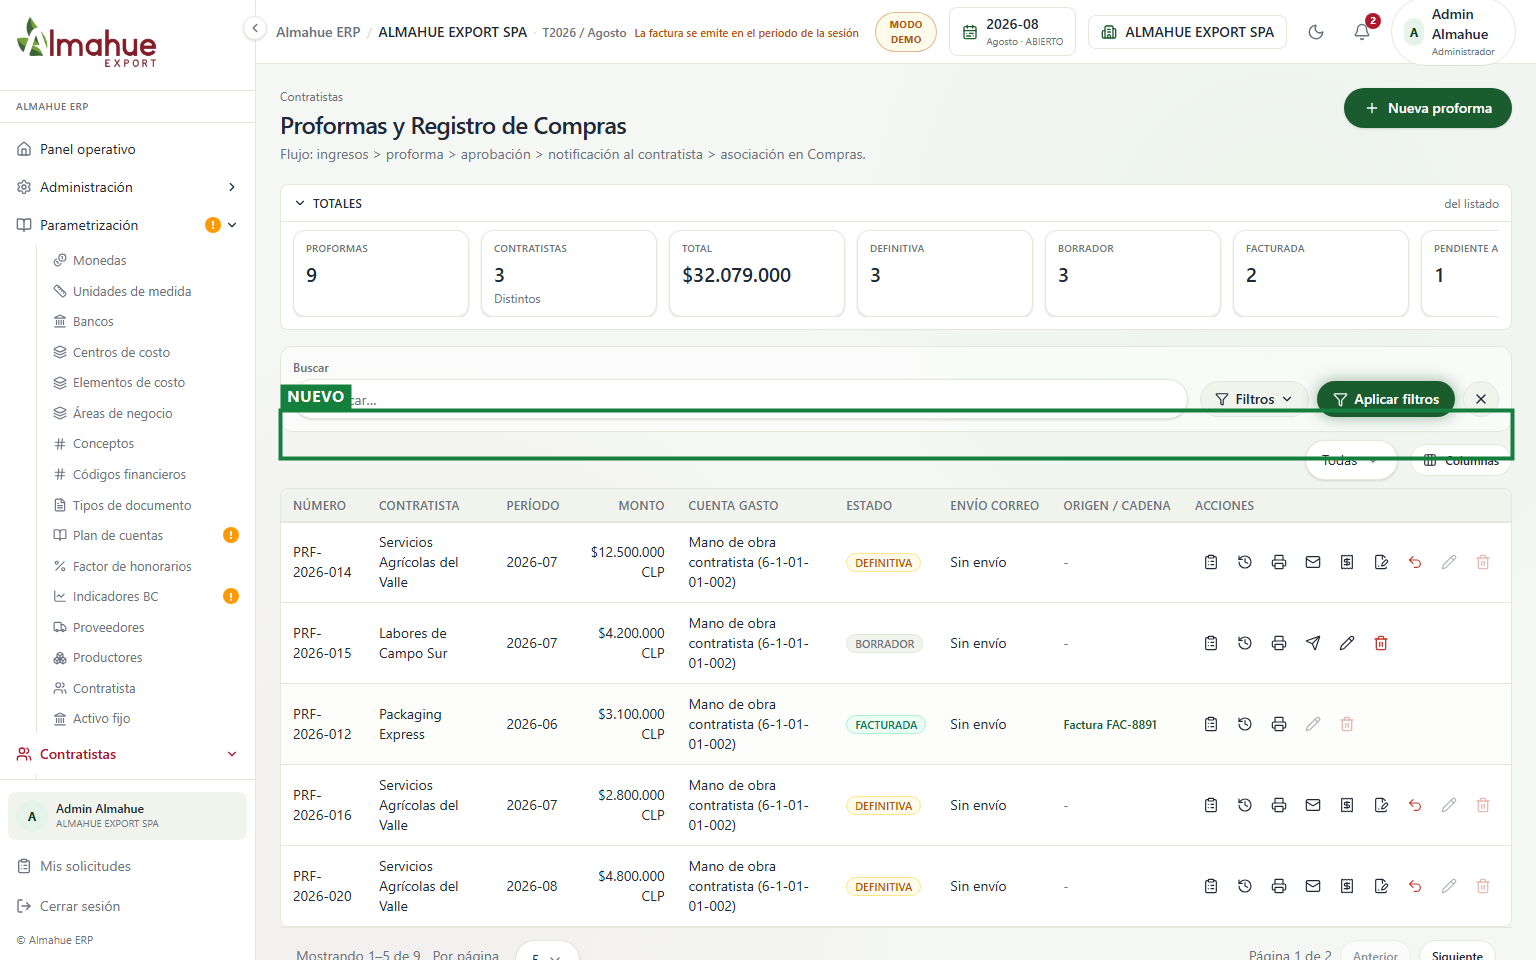
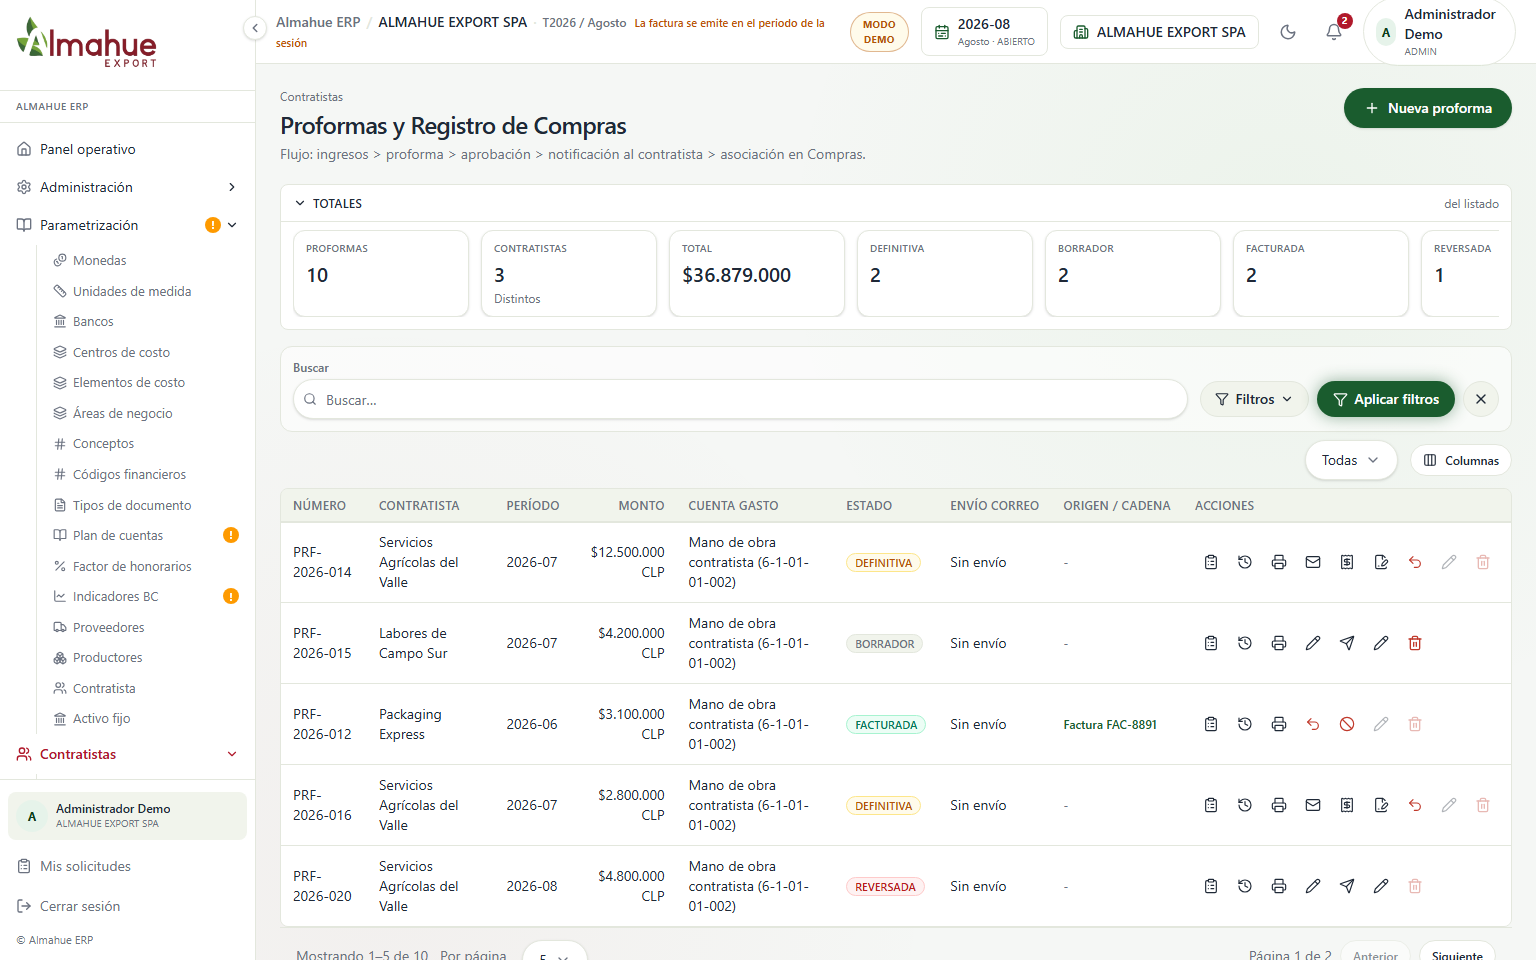
docs(sesiones): regenerar captura de paso 4 con badge REVERSADA y reubicar pins sobre proforma

diff --git a/docs/sesiones/cierre-contratistas-doble-vb-2026-10-29/recorrido.html b/docs/sesiones/cierre-contratistas-doble-vb-2026-10-29/recorrido.html
@@ -135,8 +135,8 @@
         img: "despues-paso4-proforma-reversada-edicion.png",
         alt: "Listado de proformas con PRF-2026-020 en estado REVERSADA y editable",
         pins: [
-          { x: 55.1, y: 43.5, t: "Proforma Reversada y Segura", d: "La proforma PRF-2026-020 adopta el estado REVERSADA manteniendo todas las cuadrillas y horas de labor intactas para su corrección puntual." },
-          { x: 95.0, y: 43.5, t: "Edición y Re-envío", d: "El administrativo realiza los ajustes necesarios en horas o centros de costo y envía la proforma corregida a DEFINITIVA para habilitar la re-centralización del módulo." }
+          { x: 57.7, y: 92.3, t: "Proforma Reversada y Segura", d: "La proforma PRF-2026-020 adopta formalmente el estado REVERSADA en el listado, manteniendo todas las cuadrillas y horas de labor intactas para su corrección puntual tras la autorización con doble visto bueno." },
+          { x: 80.0, y: 92.3, t: "Edición y Re-envío", d: "La barra de acciones de la proforma habilita las herramientas de edición y detalle de labores para que el administrativo aplique las correcciones necesarias y la envíe nuevamente a aprobación." }
         ]
       },
       {
